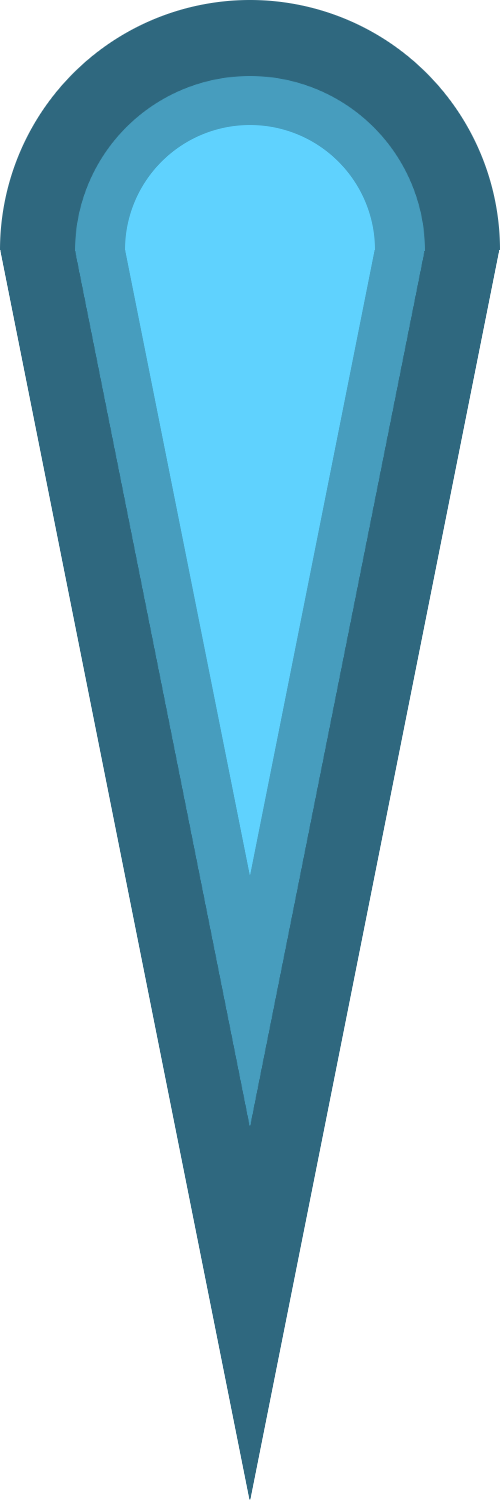
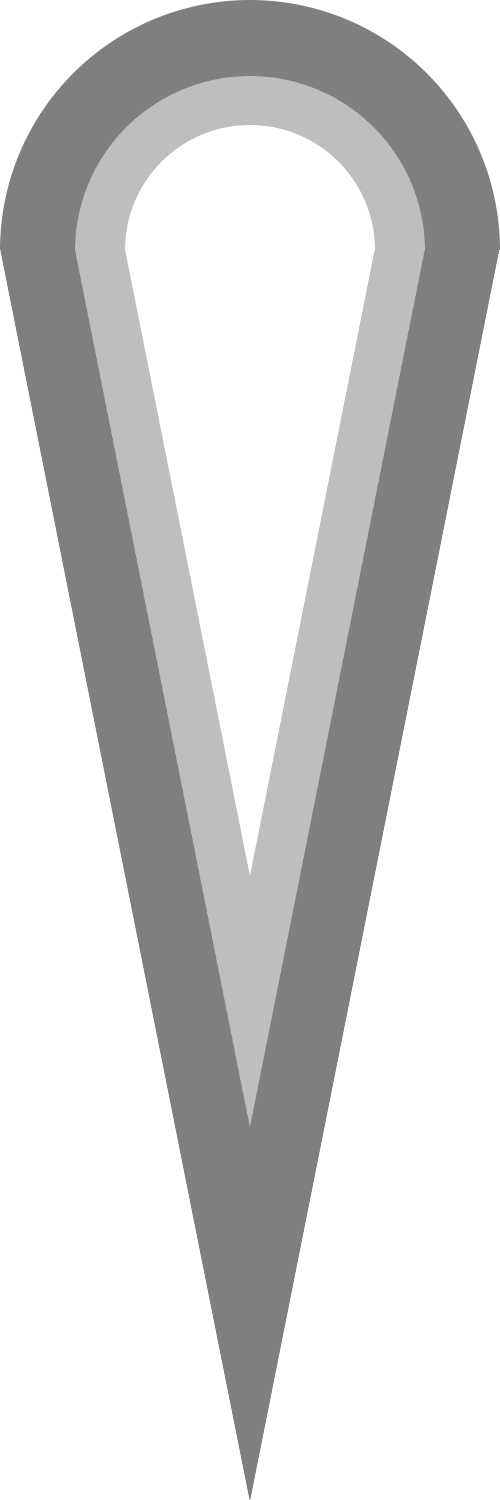
Completed the ColorManager system of color assignment. Every color in the game can now be easily controlled from the GameManager Unity object, and future colors will have a clear and convenient path to being controlled.

diff --git a/Assets/ObjectPooling/PoolLists/Hierarchy/PoolList.cs b/Assets/ObjectPooling/PoolLists/Hierarchy/PoolList.cs
@@ -1,6 +1,7 @@
 using System;
 using System.Collections.Generic;
 using System.Linq;
+using Assets.ColorManagers;
 using Assets.Util;
 using UnityEngine;
 
@@ -20,6 +21,13 @@ namespace Assets.ObjectPooling
     /// /// <inheritdoc/>
     public abstract class PoolList<T> : PoolList where T : PooledObject
     {
+        #region Property Fields
+
+        private Dictionary<Type, ObjectPool<T>> _poolMap;
+        private T[] _allPrefabs;
+
+        #endregion Property Fields
+
         /// <summary>
         /// An array representation of each pool represented by this PoolList.
         /// </summary>
@@ -28,7 +36,22 @@ namespace Assets.ObjectPooling
         /// <summary>
         /// An array of all private prefabs represented by this PoolList.
         /// </summary>
-        protected T[] AllPrefabs { get; set; }
+        protected T[] AllPrefabs
+        {
+            get => _allPrefabs;
+            private set
+            {
+                _allPrefabs = value;
+                PrefabMap = _allPrefabs.ToDictionary(x => x.GetType(), x => x);
+                PoolMap = _allPrefabs.ToDictionary(x => x.GetType(), x => new ObjectPool<T>(x));
+            }
+        }
+
+        /// <summary>
+        /// A dictionary in which each prefab represented by this PoolList
+        /// is indexed by the type of the prefab.
+        /// </summary>
+        protected Dictionary<Type, T> PrefabMap { get; private set; }
 
         /// <summary>
         /// Returns the default color of objects in this pool from a given color manager.
@@ -72,12 +95,13 @@ namespace Assets.ObjectPooling
                 OnPoolMapSet();
             }
         }
-        private Dictionary<Type, ObjectPool<T>> _poolMap;
 
+        protected virtual void OnInit() { }
         public override void Init(ColorManager colorManager)
         {
             LoadPoolMap();
             InitSprites(colorManager);
+            OnInit();
         }
 
         /// <summary>
@@ -89,8 +113,7 @@ namespace Assets.ObjectPooling
             try
             {
                 AllPrefabs = ReflectionUtil.GetPrivatePoolablePrefabFields(this)
-                    .Select(x => (T) x).ToArray();
-                PoolMap = AllPrefabs.ToDictionary(x => x.GetType(), x => new ObjectPool<T>(x));
+                    .Select(x => (T)x).ToArray();
             }
             catch (Exception ex)
             {
@@ -113,7 +136,8 @@ namespace Assets.ObjectPooling
                 var pool = PoolMap[type];
                 var ret = (TGet)pool.Get();
                 return ret;
-            } catch (Exception ex)
+            }
+            catch (Exception ex)
             {
                 var type = typeof(TGet);
                 throw ex;
@@ -178,7 +202,7 @@ namespace Assets.ObjectPooling
         {
             var type = typeof(TGet);
             var pool = PoolMap[type];
-            var ret = (TGet) pool.ObjectPrefab;
+            var ret = (TGet)pool.ObjectPrefab;
             return ret;
         }
 

diff --git a/Assets/ColorManager.cs b/Assets/ColorManager.cs
@@ -3,30 +3,66 @@ using System.Collections.Generic;
 using System.Linq;
 using System.Text;
 using System.Threading.Tasks;
+using Assets.ColorManagers.SubManagers;
 using UnityEngine;
 
-namespace Assets
+namespace Assets.ColorManagers
 {
+    /// <summary>
+    /// A collection of colors designed to be edited in the GameManager Unity object.
+    /// </summary>
     [Serializable]
     public struct ColorManager
     {
-        [SerializeField]
-        public Color PlayerColor;
+        public Color DefaultPlayer;
+        public Color DefaultEnemy;
 
         [SerializeField]
-        public Color EnemyColor;
+        public PlayerColors Player;
 
-        //[SerializeField]
-        //public Color Color;
+        [SerializeField]
+        public EnemyColors Enemy;
 
-        //[SerializeField]
-        //public Color PlayerColor;
+        [SerializeField]
+        public UIColors UI;
 
-        //[SerializeField]
-        //public Color PlayerColor;
+        public Color SetAlpha(Color color, float alpha)
+        {
+            color.a = alpha;
+            return color;
+        }
 
-        //[SerializeField]
-        //public Color PlayerColor;
+        public Color DefaultPlayerAdditionalColor()
+        {
+            return SetAlpha(DefaultPlayer, Player.DefaultAdditionalRatio);
+        }
+    }
+}
 
+
+namespace Assets.ColorManagers.SubManagers
+{
+    [Serializable]
+    public struct PlayerColors
+    {
+        public float DefaultAdditionalRatio;
+
+        public Color Reflected;
+        public Color Retribution;
+        public Color Sentinel;
+        public Color Void;
+    }
+
+    [Serializable]
+    public struct EnemyColors
+    {
+        public Color Tank;
+        public Color RingEnemyRing;
+    }
+
+    [Serializable]
+    public struct UIColors
+    {
+        public float VictimMarkerAlpha;
     }
 }

diff --git a/Assets/GameManager.cs b/Assets/GameManager.cs
@@ -15,6 +15,7 @@ using Assets.Util;
 using Assets.ObjectPooling;
 using UnityEngine;
 using System.Diagnostics;
+using Assets.ColorManagers;
 
 namespace Assets
 {
@@ -26,7 +27,7 @@ namespace Assets
         private bool DebugPauseNextFrame { get; set; }
 
         private const bool AddingPowerup = true;
-        public Type GameRowPowerupType => GetPowerupType<RetributionPowerup>();
+        public Type GameRowPowerupType => GetPowerupType<VictimPowerup>();
         private Type GetPowerupType<TPowerup>() where TPowerup : Powerup => typeof(TPowerup);
 
         public Player Player;
@@ -240,10 +241,11 @@ namespace Assets
 
         private void InitIndependentColors()
         {
-            Player.SpriteColor = _ColorManager.PlayerColor;
-            _Othello.SpriteColor = _ColorManager.PlayerColor;
-            _RainCloud.SpriteColor = _ColorManager.PlayerColor;
-            _RainCloudSpawner.SpriteColor = _ColorManager.PlayerColor;
+            var defaultPlayerAdditional = _ColorManager.DefaultPlayerAdditionalColor();
+            Player.SpriteColor = _ColorManager.DefaultPlayer;
+            _Othello.SpriteColor = defaultPlayerAdditional;
+            _RainCloud.SpriteColor = defaultPlayerAdditional;
+            _RainCloudSpawner.SpriteColor = defaultPlayerAdditional;
         }
 
         public void FirePlayerBullets(PlayerBullet[] bullets)
@@ -440,8 +442,8 @@ namespace Assets
 
         public void RecolorPlayerActivity(Color color)
         {
-            _ColorManager.PlayerColor = color;
-            Player.GetComponent<SpriteRenderer>().color = _ColorManager.PlayerColor;
+            _ColorManager.DefaultPlayer = color;
+            Player.GetComponent<SpriteRenderer>().color = _ColorManager.DefaultPlayer;
 
             _PoolManager.RecolorPlayerActivity(color);
         }

diff --git a/Assets/ObjectPooling/PoolLists/BulletPoolList.cs b/Assets/ObjectPooling/PoolLists/BulletPoolList.cs
@@ -1,4 +1,5 @@
 using Assets.Bullets.PlayerBullets;
+using Assets.ColorManagers;
 using Assets.Util;
 using UnityEngine;
 
@@ -56,11 +57,22 @@ namespace Assets.ObjectPooling
         #endregion Additional Bullets
 
         protected override Color GetDefaultColor(ColorManager colorManager)
-            => colorManager.PlayerColor;
+            => colorManager.DefaultPlayer;
 
         protected override void OnInitSprites(ColorManager colorManager)
         {
-            // TODO: Assign all addtional bullets
+            var player = colorManager.Player;
+            Color defaulAdditional = colorManager.DefaultPlayerAdditionalColor();
+
+            ReflectedPrefab.SpriteColor = player.Reflected;
+            ShrapnelPrefab.SpriteColor = defaulAdditional;
+            RaindropPrefab.SpriteColor = defaulAdditional;
+            PestControlPrefab.SpriteColor = defaulAdditional;
+            SentinelPrefab.SpriteColor = player.Sentinel;
+            OthelloPrefab.SpriteColor = defaulAdditional;
+            VictimPrefab.SpriteColor = defaulAdditional;
+            VoidPrefab.SpriteColor = player.Void;
+            RetributionPrefab.SpriteColor = player.Retribution;
         }
 
         /// <summary>

diff --git a/Assets/ObjectPooling/PoolLists/UIElementPoolList.cs b/Assets/ObjectPooling/PoolLists/UIElementPoolList.cs
@@ -1,4 +1,5 @@
-using Assets.UI;
+using Assets.ColorManagers;
+using Assets.UI;
 using UnityEngine;
 
 namespace Assets.ObjectPooling
@@ -10,7 +11,7 @@ namespace Assets.ObjectPooling
         [SerializeField]
         private FleetingText FleetingTextPrefab;
         [SerializeField]
-        private AtomTrail AtomTrialPrefab;
+        private AtomTrail AtomTrailPrefab;
         [SerializeField]
         private VictimMarker VictimMarkerPrefab;
         [SerializeField]
@@ -23,7 +24,16 @@ namespace Assets.ObjectPooling
 
         protected override void OnInitSprites(ColorManager colorManager)
         {
-            // TODO: AtomTrail, VictimMarkerCorner
+            Color defaultPlayer = colorManager.DefaultPlayer;
+            AtomTrailPrefab.SpriteColor = defaultPlayer;
+
+            float victimMarkerAlpha = colorManager.UI.VictimMarkerAlpha;
+            VictimMarkerCornerPrefab.SpriteColor = colorManager.SetAlpha(defaultPlayer, victimMarkerAlpha);
+        }
+
+        protected override void OnInit()
+        {
+            VictimMarker.StaticInit();
         }
     }
 }

diff --git a/Assets/ObjectPooling/PoolLists/EnemyPoolList.cs b/Assets/ObjectPooling/PoolLists/EnemyPoolList.cs
@@ -4,6 +4,7 @@ using UnityEngine;
 using System.Linq;
 using Assets.Util;
 using System;
+using Assets.ColorManagers;
 
 namespace Assets.ObjectPooling
 {
@@ -28,11 +29,14 @@ namespace Assets.ObjectPooling
             PoolMap.TryGetValue(OverrideEnemyType, out var ret) ? ret : null;
 
         protected override Color GetDefaultColor(ColorManager colorManager)
-            => colorManager.EnemyColor;
+            => colorManager.DefaultEnemy;
 
         protected override void OnInitSprites(ColorManager colorManager)
         {
-            // TODO: RingEnemyRing
+            var enemy = colorManager.Enemy;
+
+            TankPrefab.SpriteColor = enemy.Tank;
+            RingEnemyRingPrefab.SpriteColor = enemy.RingEnemyRing;
         }
 
         protected override void OnPoolMapSet()

diff --git a/Assets/ObjectPooling/PoolLists/EnemyBulletPoolList.cs b/Assets/ObjectPooling/PoolLists/EnemyBulletPoolList.cs
@@ -2,6 +2,7 @@
 using System.Collections.Generic;
 using System.Linq;
 using Assets.Bullets.EnemyBullets;
+using Assets.ColorManagers;
 using Assets.Enemies;
 using Assets.EnemyBullets;
 using Assets.Util;
@@ -20,11 +21,11 @@ namespace Assets.ObjectPooling
         private RingEnemyBullet RingPrefab;
 
         protected override Color GetDefaultColor(ColorManager colorManager)
-            => colorManager.EnemyColor;
+            => colorManager.DefaultEnemy;
 
         protected override void OnInitSprites(ColorManager colorManager)
         {
-            // No individual enemy bullet colors yet.
+            TankPrefab.SpriteColor = colorManager.Enemy.Tank;
         }
 
         public EnemyBullet[] GetPestControlTargets(int numToGet)

diff --git a/Assets/UI/UIElements/VictimMarkers/VictimMarker.cs b/Assets/UI/UIElements/VictimMarkers/VictimMarker.cs
@@ -11,14 +11,20 @@ namespace Assets.UI
     /// <inheritdoc/>
     public class VictimMarker : UIElement
     {
+        private static float AlphaMax;
+
+        public static void StaticInit()
+        {
+            var corner = PoolManager.Instance.UIElementPool.Get<VictimMarkerCorner>();
+            AlphaMax = corner.Alpha;
+            corner.DeactivateSelf();
+        }
+
         protected override ColorHandler DefaultColorHandler()
             => new NullColorHandler();
 
         [SerializeField]
         private float FadeTime;
-
-        [SerializeField]
-        private float AlphaMax;
 
         [SerializeField]
         private float StartDistance;

diff --git a/Assets/Powerups/OnLevelUp/Othello/Othello.cs b/Assets/Powerups/OnLevelUp/Othello/Othello.cs
@@ -33,8 +33,6 @@ namespace Assets.Powerups
         private float FadeInTime;
         [SerializeField]
         private float FadeInTimeFireDelay;
-        [SerializeField]
-        private float OthelloAlpha;
 
         private Vector2 Size { get; set; }
         public SpriteBoxMap BoxMap { get; private set; }
@@ -87,7 +85,9 @@ namespace Assets.Powerups
         {
             gameObject.SetActive(true);
 
-            var fadeTo = new FadeTo(this, OthelloAlpha, FadeInTime);
+            var targetAlpha = Alpha;
+            Alpha = 0;
+            var fadeTo = new FadeTo(this, targetAlpha, FadeInTime);
             RunTask(fadeTo);
         }
 

diff --git a/Assets/ObjectPooling/PoolManager.cs b/Assets/ObjectPooling/PoolManager.cs
@@ -1,4 +1,5 @@
-using UnityEngine;
+using Assets.ColorManagers;
+using UnityEngine;
 
 namespace Assets.ObjectPooling
 {
@@ -33,8 +34,6 @@ namespace Assets.ObjectPooling
         {
             foreach(var pool in AllPoolLists)
                 pool.Init(colorManager);
-
-
         }
 
         private void Awake()

diff --git a/Assets/UI/UIElements/VictimMarkers/VictimMarkerCorner.cs b/Assets/UI/UIElements/VictimMarkers/VictimMarkerCorner.cs
@@ -20,7 +20,7 @@ namespace Assets.UI
 
         protected override void OnActivate()
         {
-            Alpha = 0;
+            //Alpha = 0;
         }
     }
 }
